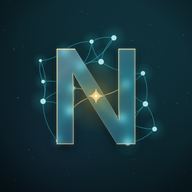
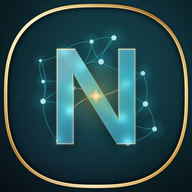
v73 · l'icône avec une bordure d'or (APK 23)
- L'icône « Verre et or » se détache mieux du fond : bordure d'or qui suit la forme des icônes Samsung, centre un peu plus éclairé, N de verre plus lumineux
- Même icône pour le raccourci web

Claude-Session: https://claude.ai/code/session_01YSBnHewxHVhPYugGudpxJ5

Changed region(s): [[0.2812, 0.25, 0.7188, 0.75], [0.0, 0.0, 1.0, 1.0]]

diff --git a/index.html b/index.html
@@ -534,7 +534,7 @@ input[type=range]{accent-color:rgb(var(--glow));border:0;padding:14px 0 6px}
   <div class="foot" style="flex-wrap:wrap;gap:16px"><div class="l" style="flex-wrap:wrap"><button id="sExp">sauvegarder</button><button id="sImp">restaurer</button><button id="sForget">oublier mes corrections</button></div></div>
   <input type="file" id="sFile" accept=".json" hidden>
   </div>
-  <p class="small" style="margin-top:24px;text-align:center"><span data-jvtitre>N.E.S.T.O.R.</span> v72 · Rc4st</p>
+  <p class="small" style="margin-top:24px;text-align:center"><span data-jvtitre>N.E.S.T.O.R.</span> v73 · Rc4st</p>
 </div>
 
 <div class="sheet" id="menu">
@@ -724,7 +724,7 @@ const WD = ["dimanche","lundi","mardi","mercredi","jeudi","vendredi","samedi"];
 const MO = ["janvier","février","mars","avril","mai","juin","juillet","août","septembre","octobre","novembre","décembre"];
 
 /* ===== APPLI ANDROID (Capacitor) : la même page, avec les pouvoirs du téléphone ===== */
-const TEMPO_BUILD = 72;
+const TEMPO_BUILD = 73;
 const CAP = window.Capacitor;
 const NATIVE = !!(CAP && CAP.isNativePlatform && CAP.isNativePlatform());
 const TN = NATIVE && CAP.Plugins ? CAP.Plugins.TempoNative : null;

diff --git a/app/android/app/src/main/java/fr/rc4st/copilote/TempoNativePlugin.java b/app/android/app/src/main/java/fr/rc4st/copilote/TempoNativePlugin.java
@@ -99,7 +99,7 @@ import org.json.JSONObject;
 public class TempoNativePlugin extends Plugin {
 
     static final String PREFS = "tempo_native";
-    static final int NATIVE_BUILD = 22;
+    static final int NATIVE_BUILD = 23;
 
     private TextToSpeech tts;
     private boolean ttsReady = false;
